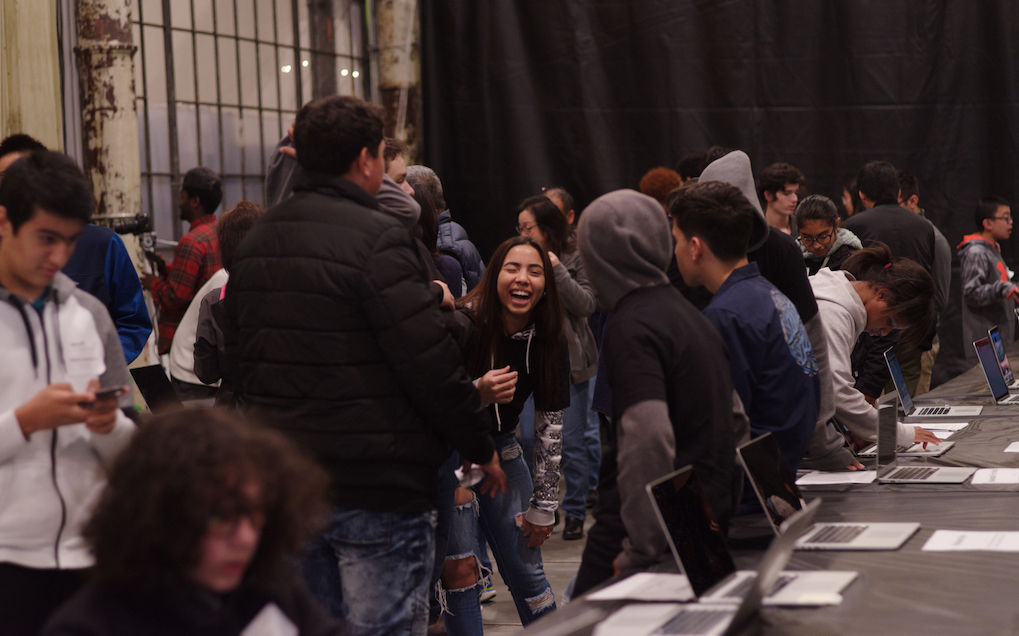
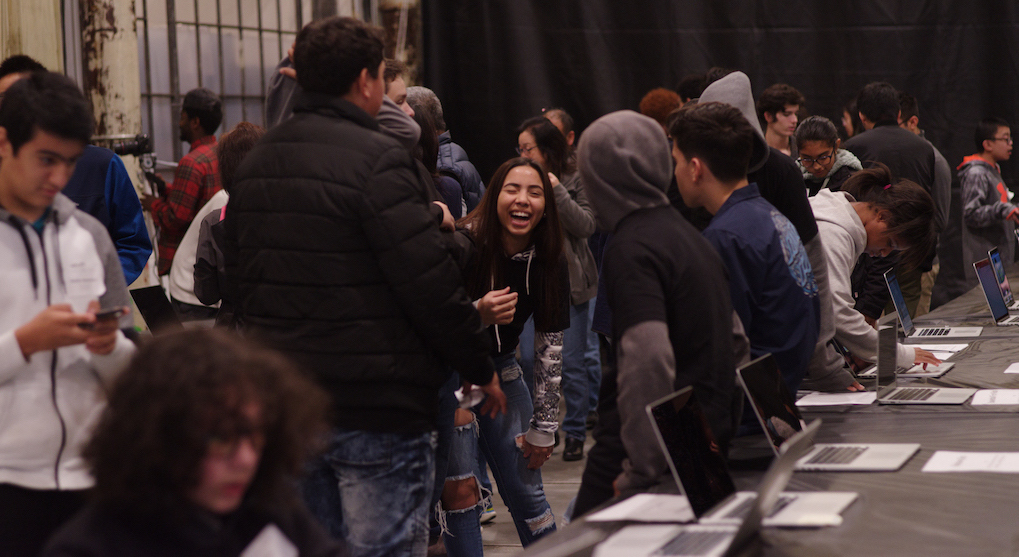
edited demo day image and filter

diff --git a/css/style.css b/css/style.css
@@ -445,8 +445,8 @@ section.module.parallax-4 {
 .demoday {
     background:
     linear-gradient(
-      rgba(0, 0, 0, 0.35),
-      rgba(0, 0, 0, 0.35)
+      rgba(0, 0, 0, 0.2),
+      rgba(0, 0, 0, 0.2)
     ),
     url(/images/demo-day-hero.jpg);
     background-size: 100%;
